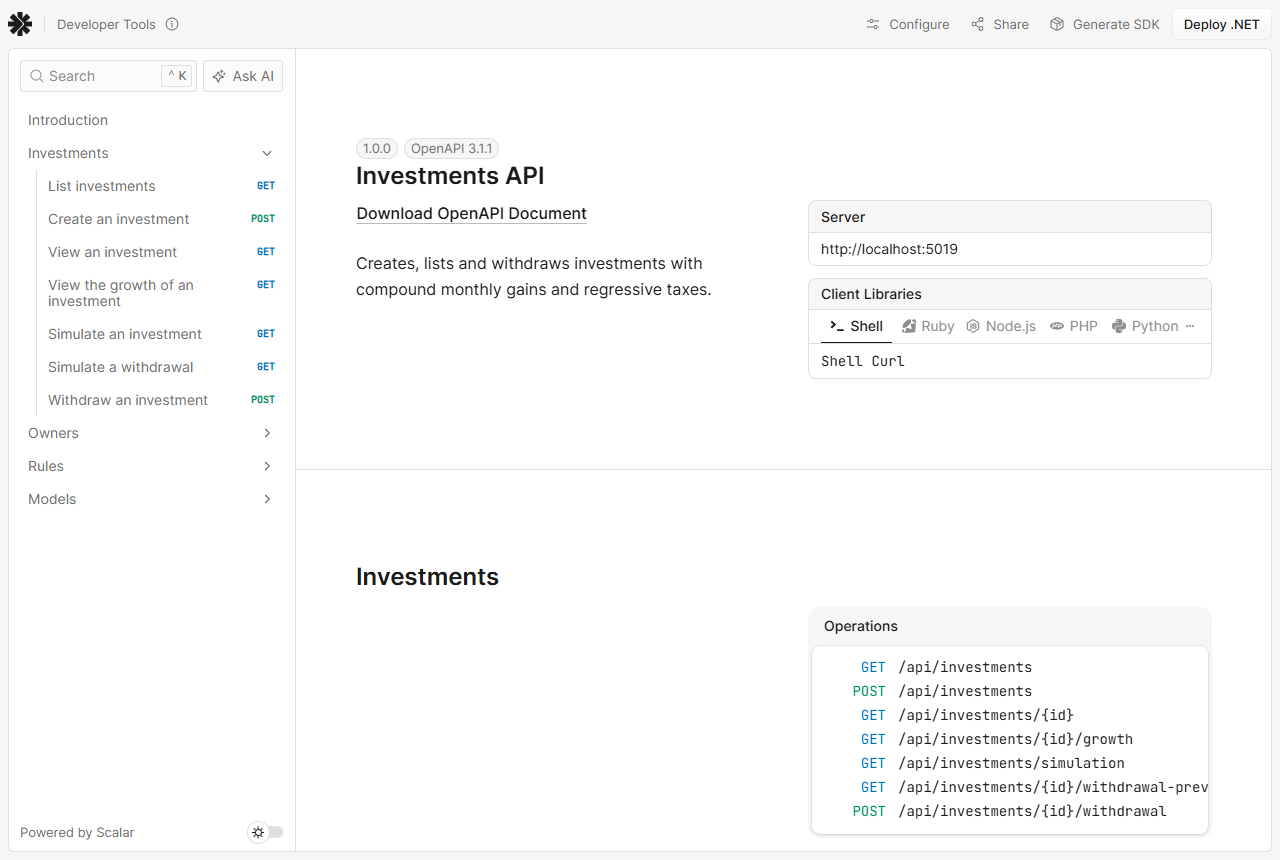
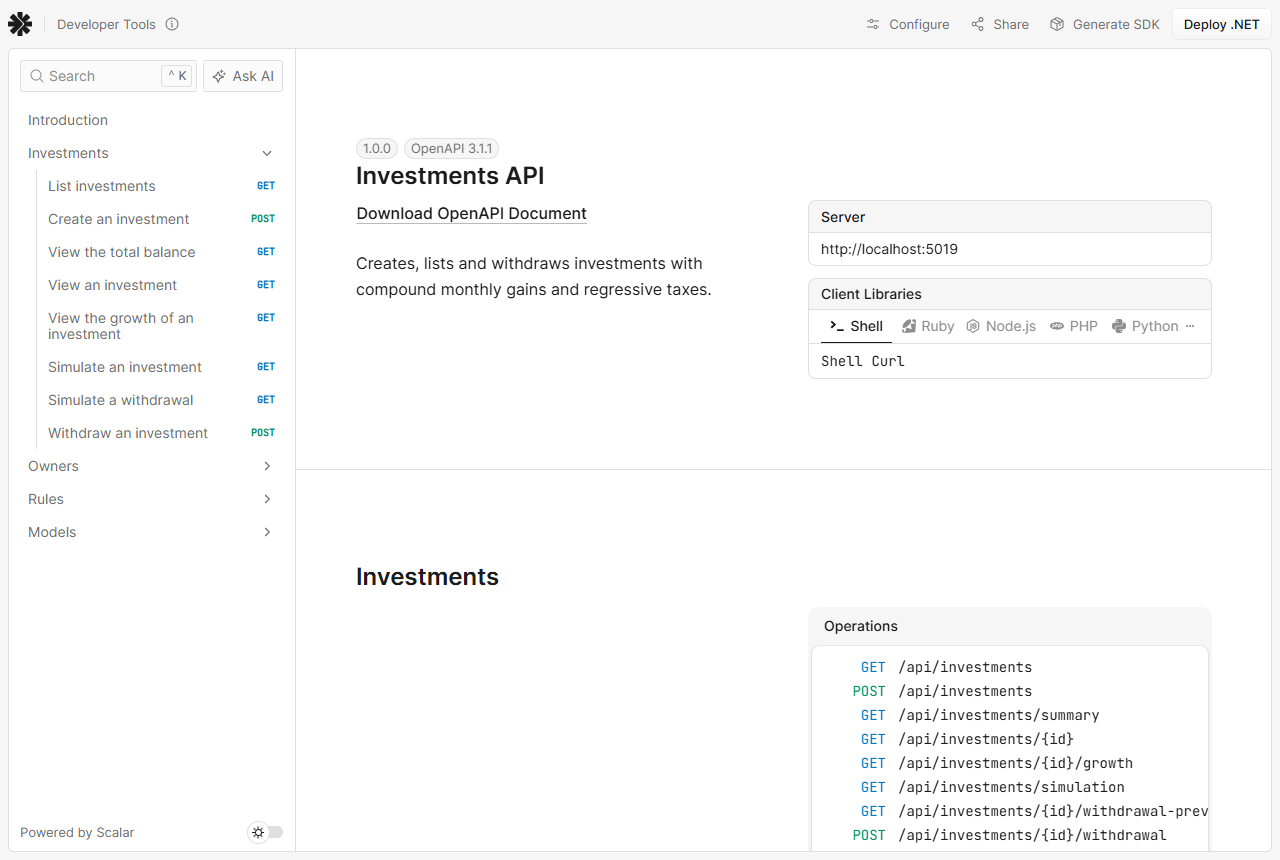
docs: update screenshots and decisions after the Figma layout

diff --git a/README.md b/README.md
@@ -49,7 +49,8 @@ With the API running:
 | `GET` | `/api/owners` | List people |
 | `POST` | `/api/owners` | Register a person |
 | `GET` | `/api/rules` | View the gain and tax rates in use |
-| `GET` | `/api/investments?ownerId=&status=&sortBy=&sortDirection=&page=1&pageSize=10` | List investments, with optional filters and order |
+| `GET` | `/api/investments/summary?ownerId=&from=&to=` | Total balance of the active investments |
+| `GET` | `/api/investments?ownerId=&from=&to=&status=&sortBy=&sortDirection=&page=1&pageSize=10` | List investments, with optional filters and order |
 | `GET` | `/api/investments/simulation?amount=&creationDate=&months=` | Simulate a withdrawal after some months, without creating anything |
 | `POST` | `/api/investments` | Create an investment |
 | `GET` | `/api/investments/{id}` | View initial amount, gains, expected balance, next gain and a withdrawal today |
@@ -79,7 +80,7 @@ The two projects are deployed independently. The UI reads the API address from `
 - **C# / .NET 10 and ASP.NET Core:** C# was requested. .NET 10 is the current LTS.
 - **EF Core + SQLite:** migrations and persistence with no database to install, so the API runs with a single command.
 - **Angular 22 + TypeScript:** "Angular.JS + TypeScript" was requested and read as current Angular.
-- **Tailwind CSS + Angular CDK:** own layout, with accessible dialogs from the CDK instead of a full component library.
+- **Tailwind CSS + Angular CDK:** layout based on the Figma reference, with accessible dialogs from the CDK instead of a full component library.
 - **No chart library:** there is a single line chart, drawn as SVG by a small component.
 - **Scalar + OpenAPI:** documentation generated from the code and navigable in the browser.
 - **xUnit and Vitest:** default test tools of current .NET and Angular.
@@ -100,6 +101,8 @@ The statement leaves some points open. These are the choices made. The business 
 | Double withdrawal | Refused with `409`, including simultaneous requests (optimistic concurrency). |
 | List | The API asks for a person's list and the UI for all investments, so the filter by person is optional. |
 | Sorting | By date, amount or owner. Not by balance, because it is calculated and not stored. |
+| Layout | Screens, structure and colors follow the Figma reference, seen only as a low-resolution preview. The owner column, the tax preview, the details screen, the dark theme and the phone layout are additions. |
+| Total balance | Adds only active investments. It follows the person and period filters, not the status one. |
 | Beyond the statement | Simulation, growth chart, status filter and sorting. Projections use the current rate and nothing simulated is stored. |
 | Rates | Configurable in `appsettings.json`, section `InvestmentRules`. |
 | Notifications | Sent on creation and withdrawal. They are only logged until `Smtp:Host` is configured. A failure never undoes the operation. |
@@ -123,6 +126,7 @@ The statement leaves some points open. These are the choices made. The business 
 ## Known limitations
 
 - If the rate changes, active investments are recalculated from the start with the new rate. The growth chart of a withdrawn investment is too, although its stored values don't change.
+- The total balance is added up in memory, because balances are calculated. A large base would need a cached total.
 - Sorting by owner ignores case, but places accented initials after Z (SQLite collation).
 - There is no authentication: anyone with access to the API sees every investment.
 - The list of people is not paginated.
